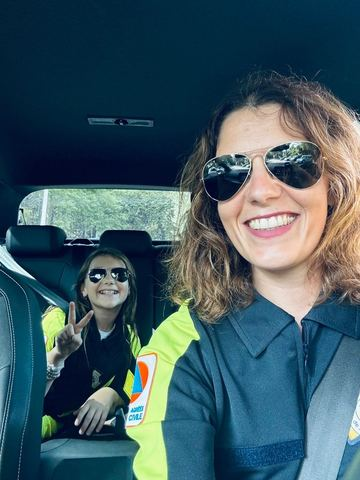
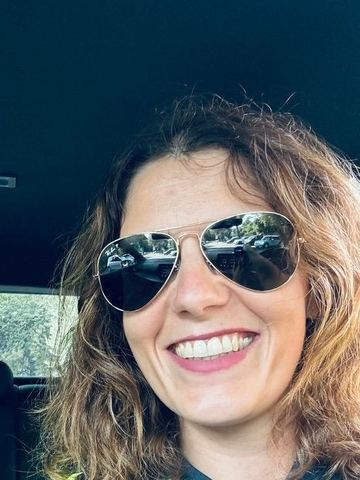
Douze portraits, tous les formateurs sur les fiches, accès en bus
RÉGRESSION QUE J'AI INTRODUITE, ET CORRIGÉE ICI. En régénérant les images
depuis les sources au commit précédent, j'ai écrasé quatre recadrages faits à
la main. Le plus grave : celui d'Aurelia, qui écartait sa fille mineure du
champ. L'enfant s'est retrouvée publiée. Anthony est passé d'un portrait seul
à une photo de groupe à trois, et Salah d'un cadrage serré à une silhouette
lointaine dans le village de Noël.

La cause : mon recadrage automatique ne fait que ramener au rapport 3/4, et
ces trois sources y étaient déjà — il ne coupait donc rien. Un recadrage écrit
nulle part est un recadrage qu'on refera de travers.

D'où outils/portraits.py, versionné, qui porte les boîtes en pixels source de
chacun avec la raison quand il y en a une. Retrouvées par recherche de motif
entre l'ancienne image et la source. Celle d'Aurelia porte un avertissement
explicite de ne pas l'élargir sans son accord.

TROIS PORTRAITS DE PLUS — Guillaume Rizo, Yaad Mosbahi, Julien Grothé — et
Thibaut a complété deux réponses qui manquaient : ce que le terrain change
dans sa façon d'enseigner, et son conseil à qui hésite. Les huit autres sont
inchangés, vérifié réponse par réponse. La réponse « formateur » de Salah
reste écartée, comme demandé.

LES FICHES DE FORMATION montrent désormais les six formateurs et non deux :
un aperçu laissait croire qu'il n'y en avait que deux.

L'ACCÈS EN BUS est renseigné — arrêt Résidence universitaire, lignes 110 ou
[…]

diff --git a/src/data/equipe.ts b/src/data/equipe.ts
@@ -322,6 +322,17 @@ export const membres: Membre[] = [
           'Ce qui m’a le plus surpris au début, c’est notre importance sur beaucoup d’événements, et le travail qu’il y a derrière. En venant en civil à une fête ou un concert, on ne remarque pas forcément les bénévoles et le travail qu’il y a derrière.',
         ],
       },
+      {
+        question: 'Ce que le terrain change dans ma façon d’enseigner',
+        texte: [
+          'L’expérience sur le terrain me permet d’enseigner que les situations auxquelles nous pouvons être confrontés ne seront jamais idéales comme en formation. Cette expérience me permet d’appuyer sur le fait qu’il faut certes être bon sur ses gestes et connaissances, mais aussi travailler sa communication sur intervention, sa gestion du stress et de l’adrénaline. L’adaptation et la polyvalence sont une des clés pour réussir.',
+          'Cette expérience me permet donc de rendre au maximum mes formations réalistes, pour les rapprocher de la réalité.',
+        ],
+      },
+      {
+        question: 'Ce que je dirais à quelqu’un qui hésite',
+        texte: ['Deviens acteur pour faire bouger les choses, et lance-toi\u00a0!!'],
+      },
     ],
   },
   {
@@ -488,6 +499,132 @@ export const membres: Membre[] = [
       },
     ],
   },
+  {
+    slug: 'guillaume',
+    prenom: 'Guillaume',
+    nom: 'Rizo',
+    metier: 'Kinésithérapeute en cabinet libéral à Antibes',
+    depuis: '2021',
+    roles: ['Formateur', 'Chef de poste', 'Chef d’équipe', 'Équipier secouriste', 'Secouriste'],
+    diplomes: ['PSC', 'PSE1', 'PSE2', 'PAE FPSC', 'PAE FPS'],
+    photo: '/img/equipe/guillaume.jpg',
+    vignette: '/img/equipe/guillaume-min.jpg',
+    alt: 'Guillaume en tenue d’équipier, avec trois autres secouristes, sur le front de mer.',
+    citation: 'On ne sait jamais ce que la vie nous réserve.',
+    reponses: [
+      {
+        question: 'Dans la vraie vie',
+        texte: ['Je suis kinésithérapeute dans un cabinet libéral à Antibes.'],
+      },
+      {
+        question: 'Ce qui m’a amené au secourisme',
+        texte: [
+          'Une connaissance, et l’envie de découvrir comment aider les gens dans des situations d’urgence.',
+        ],
+      },
+      {
+        question: 'Ce qui me fait revenir',
+        texte: ['La diversité des dispositifs, la vie en communauté dans l’association.'],
+      },
+      {
+        question: 'Ce qui m’a surpris au début',
+        texte: [
+          'Nous ne sommes pas tout le temps sollicités, mais quand une intervention arrive, d’autres s’en suivent rapidement.',
+        ],
+      },
+      {
+        question: 'Ce que le terrain change dans ma façon d’enseigner',
+        texte: [
+          'L’expérience ; le partage du terrain avec les apprenants ; insister sur des points qui sont cruciaux.',
+        ],
+      },
+      {
+        question: 'Ce que je dirais à quelqu’un qui hésite',
+        texte: [
+          'Une porte entrouverte ne demande qu’à révéler ce qu’elle cache, et surtout de ses connaissances.',
+          'On ne sait jamais ce que la vie nous réserve : savoir porter secours et réagir dans des situations d’urgence devient primordial dans la société d’aujourd’hui.',
+        ],
+      },
+    ],
+  },
+  {
+    slug: 'yaad',
+    prenom: 'Yaad',
+    nom: 'Mosbahi',
+    metier: 'Étudiant en médecine, arbitre de basket-ball',
+    depuis: '2026',
+    roles: ['Équipier secouriste'],
+    diplomes: ['PSC', 'PSE1', 'PSE2'],
+    photo: '/img/equipe/yaad.jpg',
+    vignette: '/img/equipe/yaad-min.jpg',
+    alt: 'Yaad en tenue de secouriste, sous la tente du poste de secours.',
+    citation: 'Fonce, car tu vas passer des moments inoubliables.',
+    reponses: [
+      { question: 'Dans la vraie vie', texte: ['Toujours étudiant en médecine 😂'] },
+      {
+        question: 'Ce qui m’a amené au secourisme',
+        texte: ['À la base, je me suis inscrit pour avoir un bon dossier Parcoursup.'],
+      },
+      {
+        question: 'Ce qui me fait revenir',
+        texte: [
+          'L’aide à la personne, l’entente au sein des équipes, ma curiosité à toujours vouloir voir plus loin.',
+        ],
+      },
+      {
+        question: 'Ce qui m’a surpris au début',
+        texte: [
+          'Cette facilité, au sein de l’association, à mettre en confiance la personne pendant ses premiers dispositifs de secours.',
+        ],
+      },
+      {
+        question: 'Ce que je dirais à quelqu’un qui hésite',
+        texte: ['Fonce, car tu vas passer des moments inoubliables.'],
+      },
+    ],
+  },
+  {
+    slug: 'julien',
+    prenom: 'Julien',
+    nom: 'Grothé',
+    metier: 'SSIAP 1, faisant fonction d’aide-soignant',
+    depuis: '2026',
+    roles: ['Secouriste'],
+    diplomes: ['PSE1'],
+    photo: '/img/equipe/julien.jpg',
+    vignette: '/img/equipe/julien-min.jpg',
+    alt: 'Deux secouristes en veste Secours FFSS, de dos, sur une piste de l’arrière-pays.',
+    citation: 'Beaucoup de bienveillance. Bref, plus une famille.',
+    reponses: [
+      {
+        question: 'Dans la vraie vie',
+        texte: ['Je suis SSIAP 1 et faisant fonction d’aide-soignant.'],
+      },
+      {
+        question: 'Ce qui m’a amené au secourisme',
+        texte: [
+          'Mon poste de SSIAP 1 au CADAM m’a amené à faire la formation PSE1, car obligatoire. Un organisme très impliqué, très familial.',
+        ],
+      },
+      {
+        question: 'Ce qui me fait revenir',
+        texte: [
+          'Je reviens sur ce que je disais avant, c’est-à-dire que c’est un organisme qui est très familial, très pédagogue. Un organisme également qui fait monter les gens. Beaucoup de bienveillance. Bref, plus une famille.',
+        ],
+      },
+      {
+        question: 'Ce qui m’a surpris au début',
+        texte: ['L’intégration et la motivation de chacun.'],
+      },
+      {
+        question: 'Ce que je dirais à quelqu’un qui hésite',
+        texte: [
+          'Pour le coup je peux en parler, car ça m’est arrivé. J’en ai parlé avec un collègue de travail à moi, pour qui le fait de travailler de manière bénévole est assez archaïque.',
+          'Comme je lui ai expliqué, ce n’est pas tant le bénévolat, et surtout le côté humain : le côté être là au bon moment, au bon endroit, pour des personnes en difficulté, et être respectueux et bienveillant sur la santé physique et morale des personnes à qui on vient en aide lors de nos interventions.',
+        ],
+      },
+    ],
+  },
 ];
 
 /**
@@ -533,7 +670,7 @@ export const FICHE_DIPLOME: Record<string, string> = {
 };
 
 /** Portraits recueillis à cette date, par questionnaire. */
-export const recueilliLe = '22 août 2026';
+export const recueilliLe = '23 août 2026';
 
 /**
  * Les appels glissés entre les visages, sur la page d'accueil.

diff --git a/src/data/association.ts b/src/data/association.ts
@@ -41,15 +41,17 @@ export const asso = {
   /**
    * Desserte en transports en commun.
    *
-   * ⚠ À COMPLÉTER PAR SPT : lignes et arrêts exacts desservant le 31 boulevard
-   * Impératrice Eugénie. Rien n'est inventé ici — un numéro de ligne faux
-   * envoie un stagiaire au mauvais endroit le matin de sa formation. Tant que
-   * la liste est vide, la page n'affiche que le calculateur d'itinéraire
-   * Lignes d'Azur, qui est toujours juste.
+   * Renseigné par SPT. Rien n'est déduit ici — un numéro de ligne faux envoie
+   * un stagiaire au mauvais endroit le matin de sa formation. Le temps de
+   * marche depuis l'arrêt n'a pas été communiqué : il reste absent plutôt
+   * qu'estimé. La page affiche par ailleurs le calculateur d'itinéraire
+   * Lignes d'Azur, qui reste juste même si une ligne change de tracé.
    *
-   * Format attendu : { mode: 'Bus' | 'Tram', ligne: '12', arret: 'Nom', minutes: 3 }
+   * Format : { mode: 'Bus' | 'Tram', ligne: '12', arret: 'Nom', minutes: 3 }
    */
-  acces: [] as { mode: string; ligne: string; arret: string; minutes?: number }[],
+  acces: [
+    { mode: 'Bus', ligne: '110 ou 34', arret: 'Résidence universitaire' },
+  ] as { mode: string; ligne: string; arret: string; minutes?: number }[],
 
   agrements: [
     { nom: 'Affiliée FFSS', detail: 'Fédération Française de Sauvetage et de Secourisme' },

diff --git a/outils/portraits.py b/outils/portraits.py
@@ -1,0 +1,101 @@
+"""
+Fabrique les images des portraits d'équipe à partir des envois Tally.
+
+POURQUOI CE FICHIER EXISTE. Les recadrages étaient faits à la main, une fois,
+sans trace. À la première régénération depuis les sources, quatre ont été
+silencieusement perdus — dont celui qui écartait la fille mineure d'Aurelia,
+qui s'est ainsi retrouvée publiée. Un recadrage qui n'est écrit nulle part est
+un recadrage qu'on refera de travers.
+
+Chaque portrait produit deux fichiers : la grande image du portrait ouvert et
+la vignette du mur. Le rapport est toujours 3/4.
+
+    python3 outils/portraits.py "/chemin/vers/le/dossier/Tally"
+"""
+
+import pathlib
+import sys
+
+from PIL import Image, ImageOps
+
+RATIO = 3 / 4
+SORTIE = pathlib.Path(__file__).resolve().parent.parent / 'public' / 'img' / 'equipe'
+
+# Deux façons de cadrer.
+#
+# « boite » : une boîte explicite en pixels source (gauche, haut, droite, bas),
+# obligatoire dès qu'il faut exclure quelqu'un du champ ou serrer sur une
+# personne dans un groupe. Elle doit déjà être au rapport 3/4.
+#
+# « ancre » : le sujet est seul et bien placé, on se contente de ramener la
+# photo au rapport 3/4 en s'ancrant sur lui — 0 à gauche ou en haut, 1 à droite
+# ou en bas, 0.5 au centre.
+PORTRAITS = {
+    'aurelia': {
+        'fichier': '6A864967-7748-4D99-AFB3-4DD12035330E_1_105_c.jpeg',
+        # Sa fille est mineure et parfaitement reconnaissable à l'arrière.
+        # L'accord d'Aurelia ne vaut pas pour l'enfant : la boîte s'arrête
+        # avant elle. NE PAS ÉLARGIR sans l'accord explicite d'Aurelia.
+        'boite': (307, 30, 768, 645),
+    },
+    'anthony': {
+        'fichier': '5C10EB09-EDF5-47EC-9191-0BB8FFA79CEF.png',
+        # Photo de groupe : on serre sur lui, sans le visage du voisin.
+        'boite': (112, 320, 548, 901),
+    },
+    'salah': {
+        'fichier': '20241225_123728.jpg',
+        # Sans boîte, il n'est qu'une silhouette au milieu du village de Noël.
+        'boite': (881, 1750, 1781, 2950),
+    },
+    'annabell': {'fichier': 'IMG_6948.jpeg', 'ancre': (.5, .5)},
+    'raphael-lebreuilly': {'fichier': 'IMG_8405.jpeg', 'ancre': (.5, .5)},
+    'raphael-radier': {'fichier': '88b9cc59-e0ab-4041-b506-fa19ca715a24.jpeg', 'ancre': (.53, .5)},
+    'thibaut': {'fichier': '02A1D0DE-BFE7-46D3-A529-FF0E2AC94392.png', 'ancre': (.5, .18)},
+    'angele': {'fichier': 'e82bf838-ac33-41ed-8640-1ef98f543f75.jpeg', 'ancre': (.5, .5)},
+    'anne-sophie': {'fichier': '20260813_161437.jpg', 'ancre': (.55, .5)},
+    'guillaume': {'fichier': '01ba0ead-3a4d-42a6-9290-a09f35535d69.JPG', 'ancre': (.0, .5)},
+    'julien': {'fichier': 'IMG-20260510-WA0006.jpg', 'ancre': (.5, .5)},
+    'yaad': {'fichier': 'IMG_6770.jpeg', 'ancre': (.5, .03)},
+}
+
+# On n'agrandit jamais une photo au-delà de ce facteur : mieux vaut une image
+# un peu plus petite qu'une image floue. Les recadrages serrés en profitent.
+AGRANDISSEMENT_MAX = 1.6
+
+
+def cadre(im, fiche):
+    if 'boite' in fiche:
+        return im.crop(fiche['boite'])
+    ax, ay = fiche['ancre']
+    w, h = im.size
+    if w / h > RATIO:
+        nw, nh = int(h * RATIO), h
+        return im.crop((round((w - nw) * ax), 0, round((w - nw) * ax) + nw, nh))
+    nw, nh = w, int(w / RATIO)
+    y = round((h - nh) * ay)
+    return im.crop((0, y, nw, y + nh))
+
+
+def main(source):
+    src = pathlib.Path(source)
+    for slug, fiche in PORTRAITS.items():
+        im = ImageOps.exif_transpose(Image.open(src / fiche['fichier'])).convert('RGB')
+        v = cadre(im, fiche)
+        if abs(v.width / v.height - RATIO) > 0.01:
+            raise SystemExit(f'{slug} : la boîte n’est pas au rapport 3/4 ({v.width}×{v.height})')
+        plafond = round(v.width * AGRANDISSEMENT_MAX)
+        for suffixe, largeur, qualite in [('', min(900, plafond), 82), ('-min', 360, 78)]:
+            v.resize((largeur, round(largeur / RATIO)), Image.LANCZOS).save(
+                SORTIE / f'{slug}{suffixe}.jpg', 'JPEG',
+                quality=qualite, optimize=True, progressive=True)
+        g = (SORTIE / f'{slug}.jpg').stat().st_size // 1024
+        m = (SORTIE / f'{slug}-min.jpg').stat().st_size // 1024
+        cadrage = 'boîte' if 'boite' in fiche else 'ancre'
+        print(f'  {slug:<20} {cadrage:<6} {v.width}×{v.height} → {g} ko + {m} ko')
+
+
+if __name__ == '__main__':
+    if len(sys.argv) != 2:
+        raise SystemExit(__doc__)
+    main(sys.argv[1])
